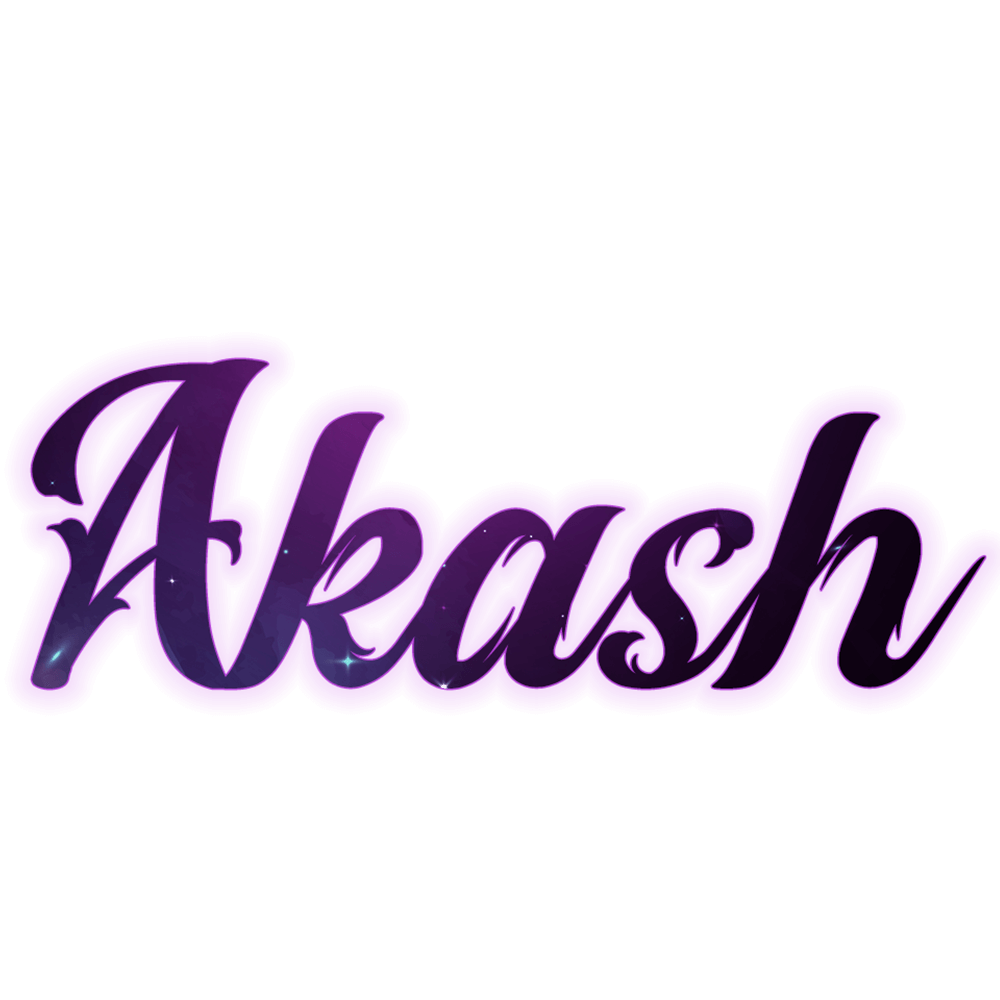
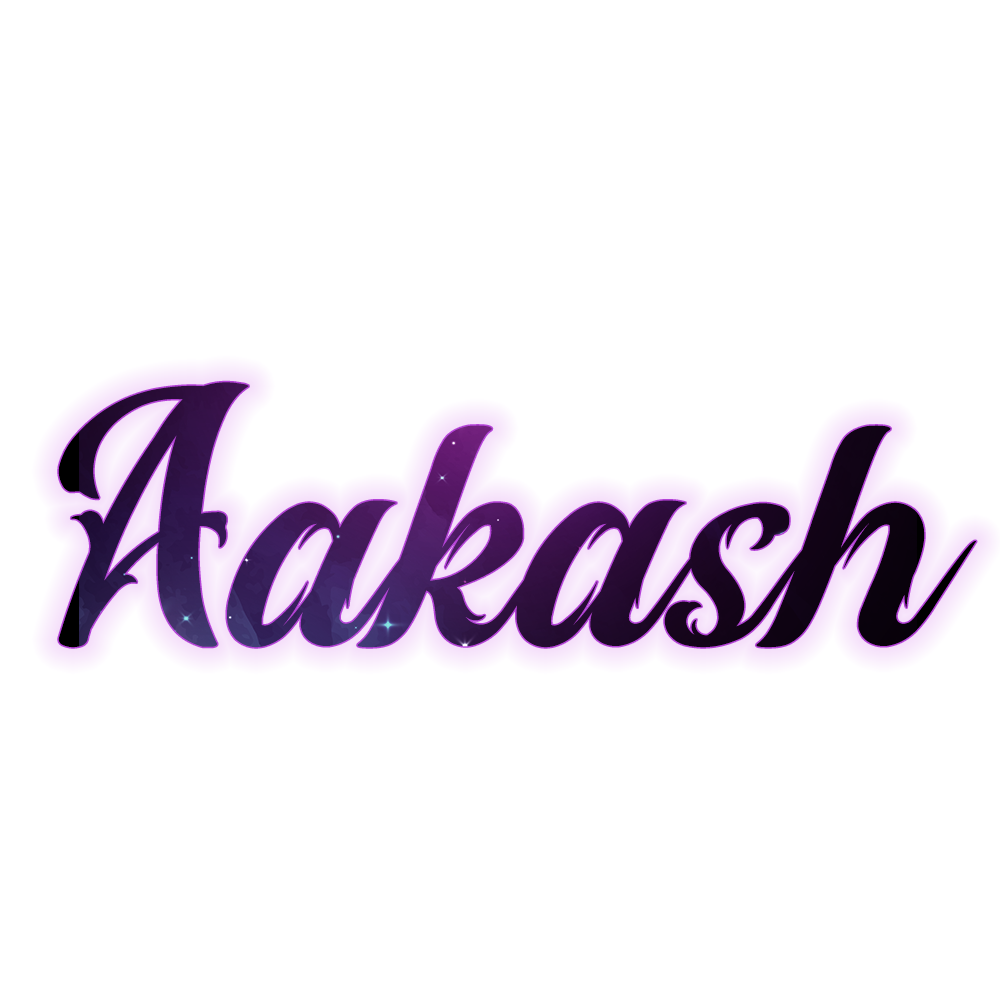
refactor: aakash

Changed region(s): [[0.0, 0.341, 0.992, 0.713]]

diff --git a/client/src/pages/Results/index.js b/client/src/pages/Results/index.js
@@ -58,7 +58,7 @@ export const Results = () => {
               case 'Akash':
                 highlight = 0x7900c0
                 setSrc(akash)
-                setCont(['Akash', 'Venture among the stars'])
+                setCont(['Aakash', 'Venture among the stars'])
                 setConfig(prev => {
                   prev.colors = ['#6a2084', '#4e3788', '#7c2f9c', '#260830']
                   return prev
